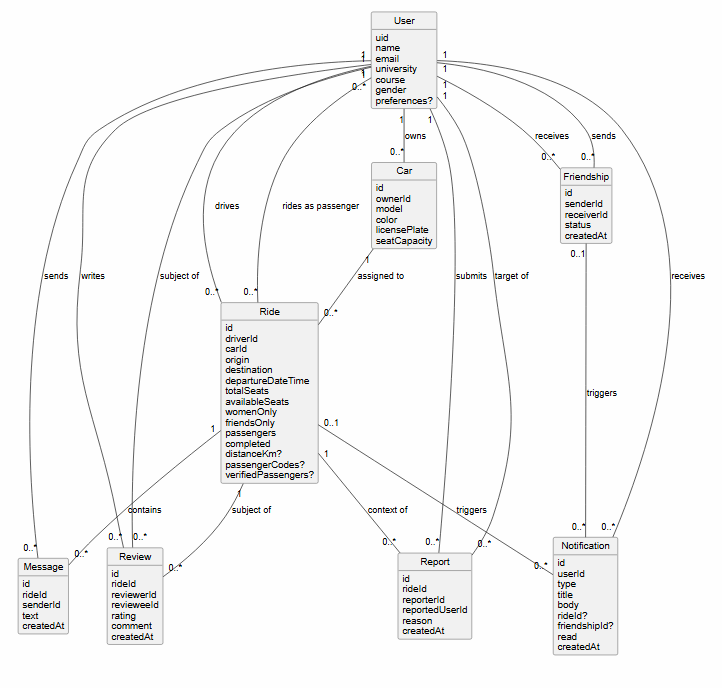
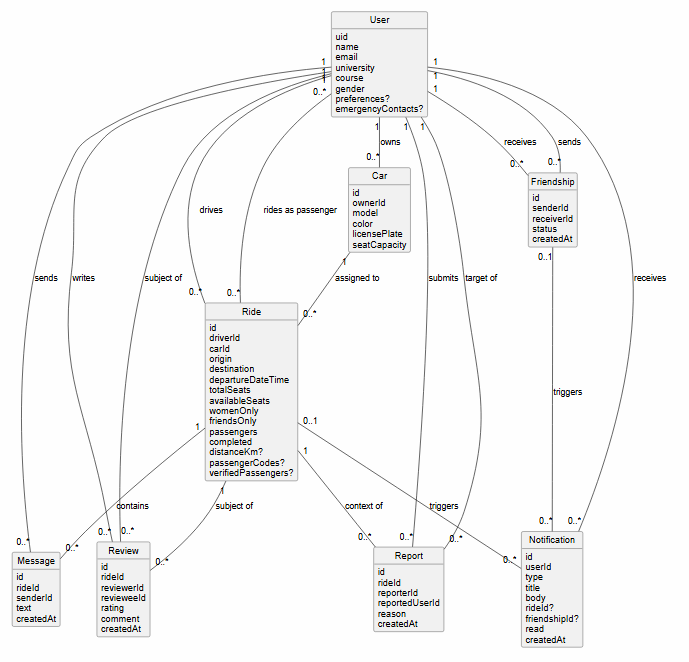
Melhorias safety contacts

diff --git a/UniLink/app/ride/[id].tsx b/UniLink/app/ride/[id].tsx
@@ -4,6 +4,7 @@ import {
   View,
   Text,
   Alert,
+  Modal,
   Pressable,
   ScrollView,
   TextInput,
@@ -12,7 +13,6 @@ import {
 
 import { SafeAreaView } from "react-native-safe-area-context";
 import { useLocalSearchParams, useRouter } from "expo-router";
-import * as Contacts from "expo-contacts";
 
 import { useAuth } from "../../hooks/useAuth";
 import { useRides } from "../../hooks/useRides";
@@ -65,6 +65,7 @@ export default function RideDetails() {
 
   const ride = id ? rides.find(r => r.id === id) : undefined;
 
+  const [showEmergencyModal, setShowEmergencyModal] = useState(false);
   const [editingCar, setEditingCar] = useState(false);
   const [selectedCarId, setSelectedCarId] = useState<string | null>(
     ride?.carId ?? null
@@ -221,50 +222,6 @@ export default function RideDetails() {
     );
   }
 
-  async function openPhoneContacts() {
-    try {
-      const { status } = await Contacts.requestPermissionsAsync();
-
-      if (status !== "granted") {
-        Alert.alert("Permission needed", "UniLink needs access to your contacts so you can choose an emergency contact.");
-        return;
-      }
-
-      const contact = await Contacts.presentContactPickerAsync();
-
-      if (!contact) return;
-
-      const phoneNumber = contact.phoneNumbers?.[0]?.number;
-
-      if (!phoneNumber) {
-        Alert.alert("No phone number", "The selected contact does not have a phone number.");
-        return;
-      }
-
-      Alert.alert(
-        "Call contact",
-        `Do you want to call ${contact.name ?? "this contact"}?\n\n${phoneNumber}`,
-        [
-          { text: "Cancel", style: "cancel" },
-          { text: "Call", onPress: () => Linking.openURL(`tel:${phoneNumber.replace(/\s/g, "")}`) },
-        ]
-      );
-    } catch {
-      Alert.alert("Contacts unavailable", "Could not open your phone contacts.");
-    }
-  }
-
-  function openEmergencyOptions() {
-    Alert.alert(
-      "Emergency contact",
-      "Choose an emergency option.",
-      [
-        { text: "Call 112", style: "destructive", onPress: callEmergencyNumber },
-        { text: "Choose phone contact", onPress: openPhoneContacts },
-        { text: "Cancel", style: "cancel" },
-      ]
-    );
-  }
 
   return (
     <SafeAreaView style={layout.screen}>
@@ -588,21 +545,75 @@ export default function RideDetails() {
         {(isDriver || joined) && (
           <View style={components.card}>
             <Text style={layout.subtitle}>Safety</Text>
-
             <Text style={[layout.textLight, { marginBottom: spacing.md }]}>
               If something feels unsafe during this ride, use the emergency contact options.
             </Text>
-
             <Button
               outline
               testID="emergencyContactButton"
-              onPress={openEmergencyOptions}
+              onPress={() => setShowEmergencyModal(true)}
               label="Emergency contact"
               style={{ borderColor: colors.danger }}
               textStyle={{ color: colors.danger }}
             />
           </View>
         )}
+
+        {/* EMERGENCY MODAL */}
+        <Modal
+          visible={showEmergencyModal}
+          transparent
+          animationType="slide"
+          onRequestClose={() => setShowEmergencyModal(false)}
+        >
+          <Pressable
+            style={{ flex: 1, backgroundColor: "rgba(0,0,0,0.4)", justifyContent: "flex-end" }}
+            onPress={() => setShowEmergencyModal(false)}
+          >
+            <Pressable
+              style={{ backgroundColor: colors.card, borderTopLeftRadius: 16, borderTopRightRadius: 16, padding: spacing.lg, gap: spacing.sm }}
+              onPress={() => {}}
+            >
+              <Text style={layout.subtitle}>Emergency contact</Text>
+
+              <Pressable
+                style={{ padding: spacing.md, borderRadius: 8, borderWidth: 1, borderColor: colors.danger }}
+                onPress={() => { setShowEmergencyModal(false); callEmergencyNumber(); }}
+              >
+                <Text style={{ color: colors.danger, fontWeight: "600", textAlign: "center" }}>Call 112</Text>
+              </Pressable>
+
+              {(activeUser.emergencyContacts ?? []).map((c, i) => (
+                <Pressable
+                  key={i}
+                  style={{ padding: spacing.md, borderRadius: 8, borderWidth: 1, borderColor: colors.danger }}
+                  onPress={() => {
+                    setShowEmergencyModal(false);
+                    Linking.openURL(`tel:${c.phone.replace(/\s/g, "")}`);
+                  }}
+                >
+                  <Text style={{ color: colors.danger, fontWeight: "600", textAlign: "center" }}>Call {c.name}</Text>
+                </Pressable>
+              ))}
+
+              {(activeUser.emergencyContacts ?? []).length === 0 && (
+                <Text
+                  style={[layout.link, { textAlign: "center" }]}
+                  onPress={() => { setShowEmergencyModal(false); router.push("/(tabs)/userProfile"); }}
+                >
+                  Add safety contact in profile →
+                </Text>
+              )}
+
+              <Pressable
+                style={{ padding: spacing.md, borderRadius: 8, backgroundColor: colors.background }}
+                onPress={() => setShowEmergencyModal(false)}
+              >
+                <Text style={{ textAlign: "center", color: colors.textLight, fontWeight: "600" }}>Cancel</Text>
+              </Pressable>
+            </Pressable>
+          </Pressable>
+        </Modal>
 
         {/* ACTIONS */}
         {(isDriver || joined) && (

diff --git a/UniLink/app/(tabs)/userProfile.tsx b/UniLink/app/(tabs)/userProfile.tsx
@@ -55,6 +55,10 @@ export default function Profile() {
   const [plate, setPlate] = useState("");
   const [seats, setSeats] = useState("");
 
+  const [showContactForm, setShowContactForm] = useState(false);
+  const [contactName, setContactName] = useState("");
+  const [contactPhone, setContactPhone] = useState("");
+
   // Sync editUser with store when not editing
   useEffect(() => {
     if (!editing) setEditUser(currentUser);
@@ -86,6 +90,21 @@ export default function Profile() {
     setColor("");
     setPlate("");
     setSeats("");
+    setShowContactForm(false);
+    setContactName("");
+    setContactPhone("");
+  }
+
+  function addContact() {
+    if (!contactName.trim() && !contactPhone.trim()) return;
+    setEditUser(prev =>
+      prev
+        ? { ...prev, emergencyContacts: [...(prev.emergencyContacts ?? []), { name: contactName.trim(), phone: contactPhone.trim() }] }
+        : prev
+    );
+    setContactName("");
+    setContactPhone("");
+    setShowContactForm(false);
   }
 
   async function saveProfile() {
@@ -226,6 +245,63 @@ export default function Profile() {
           </Text>
         )}
 
+
+        <View style={components.spacerSm} />
+
+        <Text style={layout.subtitle}>
+          Safety Contacts
+        </Text>
+
+        {(currentUser.emergencyContacts ?? []).length === 0 && !editing && (
+          <Text style={layout.textLight}>No safety contacts</Text>
+        )}
+
+        {(editing ? (editUser?.emergencyContacts ?? []) : (currentUser.emergencyContacts ?? [])).map((c, i) => (
+          <View key={i} style={[components.rowSpaceBetween, components.mbSm]}>
+            <Text>{c.name} · {c.phone}</Text>
+            {editing && (
+              <Pressable
+                style={components.dangerTag}
+                onPress={() =>
+                  setEditUser(prev =>
+                    prev
+                      ? { ...prev, emergencyContacts: (prev.emergencyContacts ?? []).filter((_, j) => j !== i) }
+                      : prev
+                  )
+                }
+              >
+                <Text style={components.dangerTagText}>Remove</Text>
+              </Pressable>
+            )}
+          </View>
+        ))}
+
+        {editing && (
+          <View style={components.mtMd}>
+            <Button
+              outline
+              onPress={() => setShowContactForm(f => !f)}
+              label={showContactForm ? "Cancel" : "Add contact"}
+            />
+          </View>
+        )}
+
+        {editing && showContactForm && (
+          <View style={[components.mtMd, { padding: spacing.md, backgroundColor: colors.background, borderRadius: radius.sm }]}>
+            <Text style={layout.subtitle}>Add safety contact</Text>
+
+            <Text style={forms.label}>Name</Text>
+            <TextInput value={contactName} onChangeText={setContactName} style={forms.input} placeholder="Contact name" />
+            <View style={components.spacerSm} />
+
+            <Text style={forms.label}>Phone</Text>
+            <TextInput value={contactPhone} onChangeText={setContactPhone} keyboardType="phone-pad" style={forms.input} placeholder="+351 xxx xxx xxx" />
+
+            <View style={components.mtMd}>
+              <Button onPress={addContact} label="Save contact" />
+            </View>
+          </View>
+        )}
 
         <View style={components.spacerMd} />
 

diff --git a/UniLink/services/ProfileService.ts b/UniLink/services/ProfileService.ts
@@ -32,6 +32,9 @@ export async function updateProfile(user: User): Promise<Result> {
     name: user.name.trim(),
     university: user.university.trim(),
     course: user.course.trim(),
+    emergencyContacts: (user.emergencyContacts ?? [])
+      .map(c => ({ name: c.name.trim(), phone: c.phone.trim() }))
+      .filter(c => c.name || c.phone),
   };
   try {
     await UserRepo.update(trimmed);

diff --git a/UniLink/domain/entities/User.ts b/UniLink/domain/entities/User.ts
@@ -12,4 +12,6 @@ export interface User {
 
  email: string;
 
+ emergencyContacts?: { name: string; phone: string }[];
+
 }
